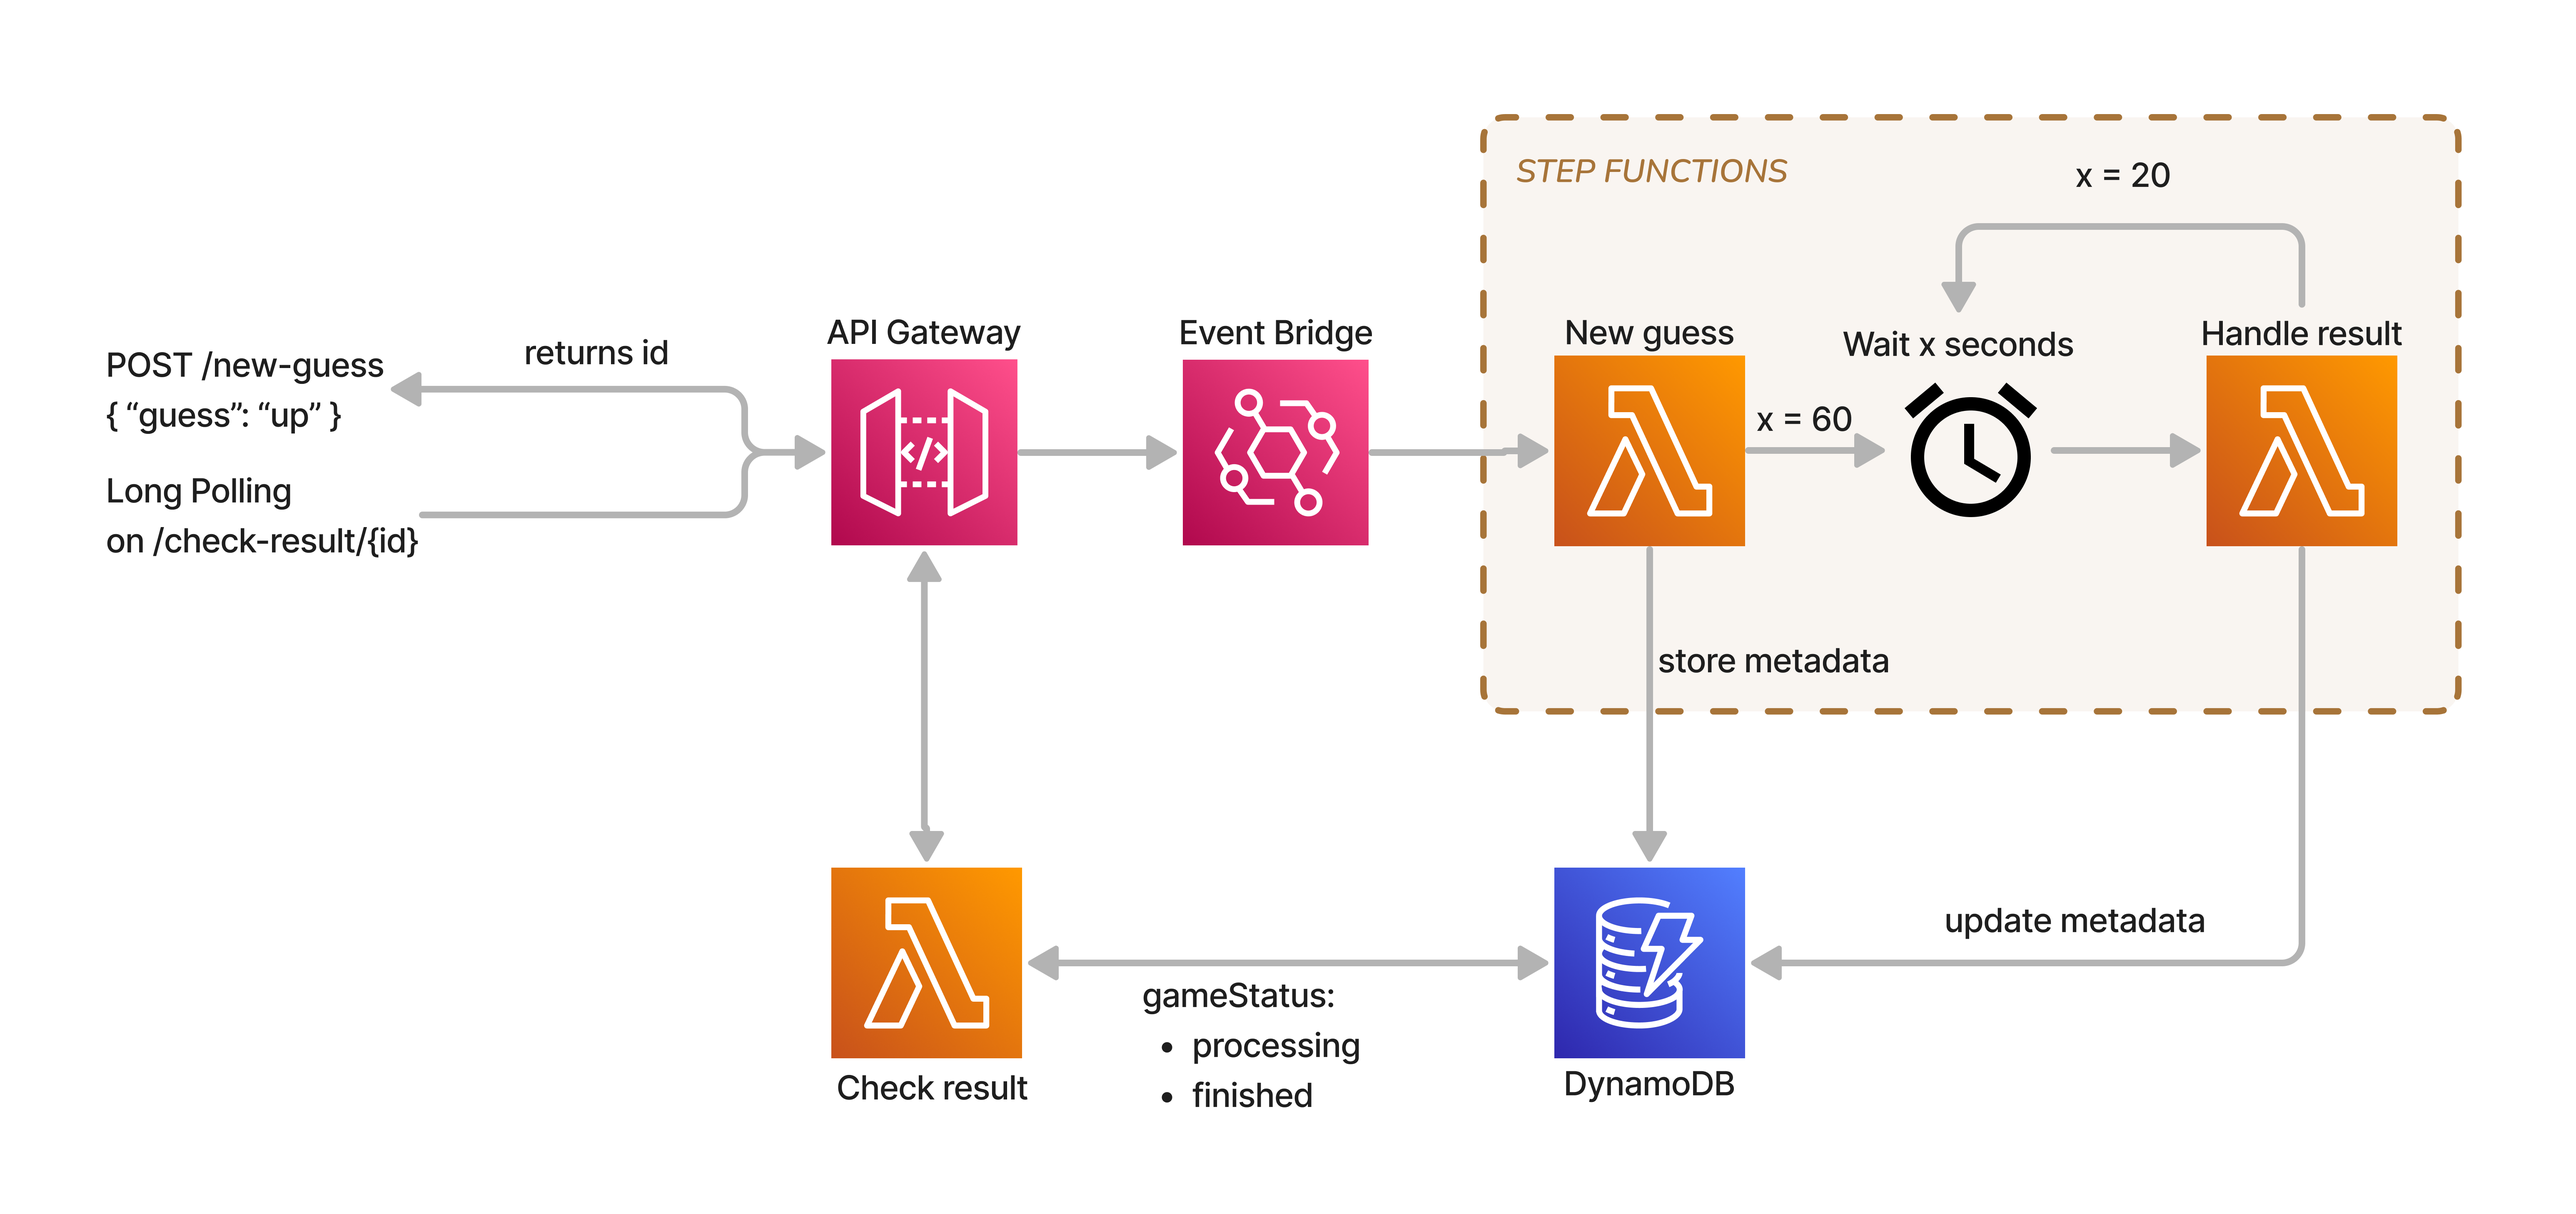
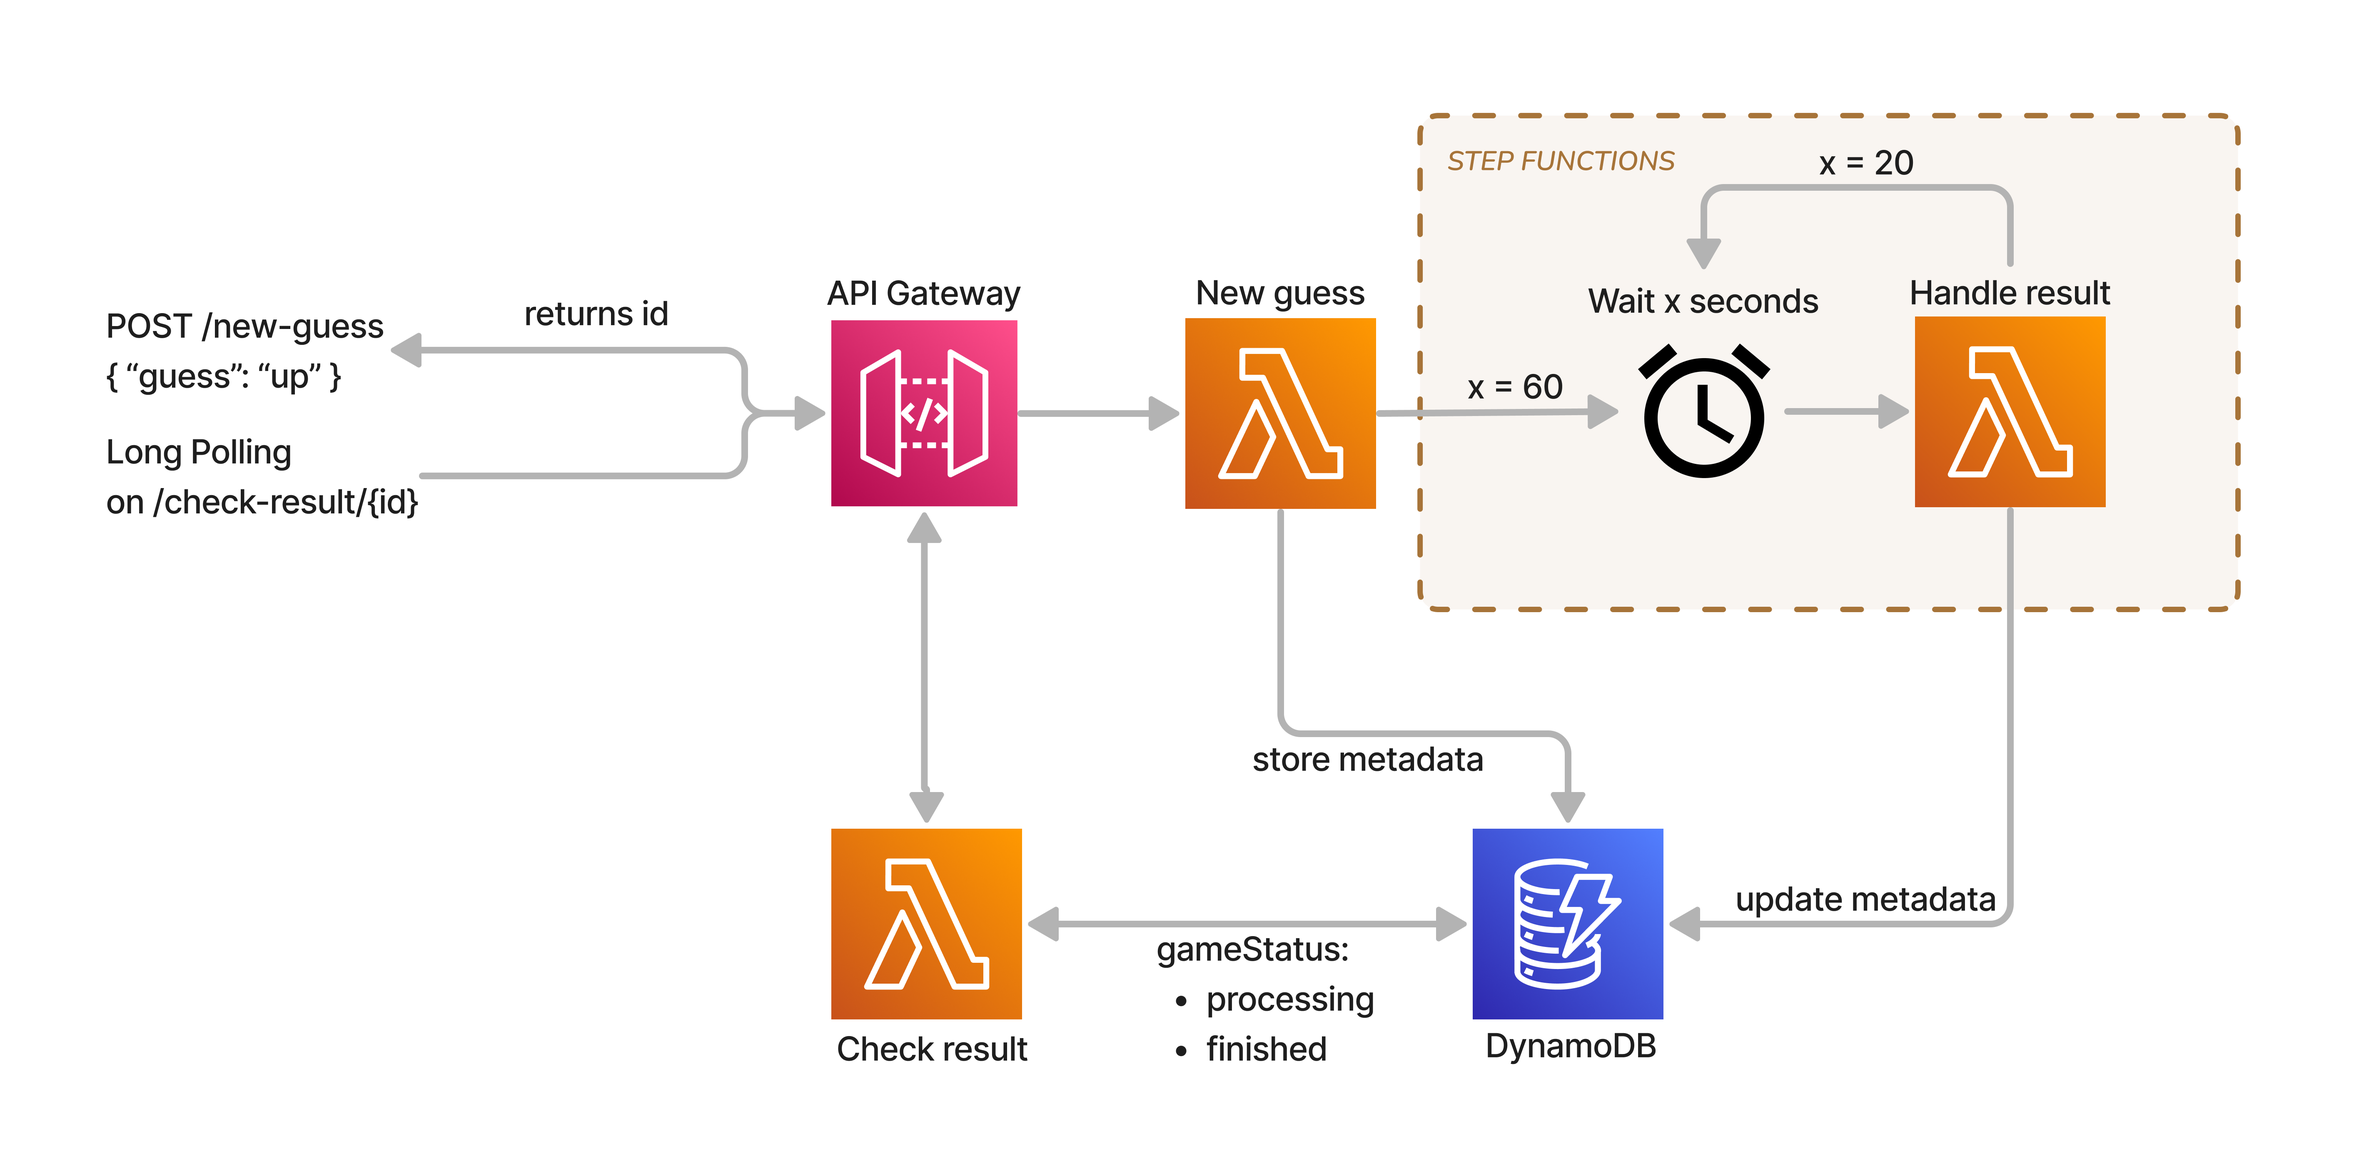
docs: update readme and diagrams to align eventbridge removal

diff --git a/README.md b/README.md
@@ -151,28 +151,17 @@ The request body has one property **guess**, which only allows either "down" or 
 
 The input validation is done through the API Gateway itself.
 
-### EventBridge
-As there is no way to integrate Step Functions in an async workflow with
-API Gateway and the CDK, I use Event Bridge as a layer between API Gateway and Step Functions. There is only one rule, which triggers the execution of the Step Function workflow
-and returns the event ID, which is used as the game ID.
-```json
-{
-  "detail-type": ["putEvent"]
-}
-```
-
 ### Lambda
 There are 3 lambda functions:
 
-1. new-guess: stores the initial game data to DynamoDB
+1. new-guess: stores the initial game data to DynamoDB and starts the state machine with a 60 seconds wait state.
 2. handle-result: checks if the initial price differs from the current price and updates the DynamoDB entry when the game is finished
 3. check-result: allows the user to get status updates about the given game ID
 
 ### Step Functions
-There are 3 tasks:
-1. newGuessTasks: is triggered through EventBridge and starts the above mentioned lambda function, it returns the game data and a property "waitSeconds" with 60 seconds as its value.
-2. waitTask: gets a variable "waitSeconds" and waits for this amount of time
-3. handleResultTask triggers the above mentioned handle-result lambda and returns whether the price did change or not with a property "didPriceChange" and "waitSeconds" with 20 seconds. That means that as long as the price did not change it will wait 20 seconds again and again until it changed and is then resolved by updating the DynamoDB items gameStatus to "finished".
+There are 2 tasks:
+1. waitTask: gets a variable "waitSeconds" and waits for this amount of time
+2. handleResultTask triggers the above mentioned handle-result lambda and returns whether the price did change or not with a property "didPriceChange" and "waitSeconds" with 20 seconds. That means that as long as the price did not change it will wait 20 seconds again and again until it changed and is then resolved by updating the DynamoDB items gameStatus to "finished".
 
 ![stepfunctionsgraph.png](/diagrams/stepfunctions.png)
 ### DynamoDB
